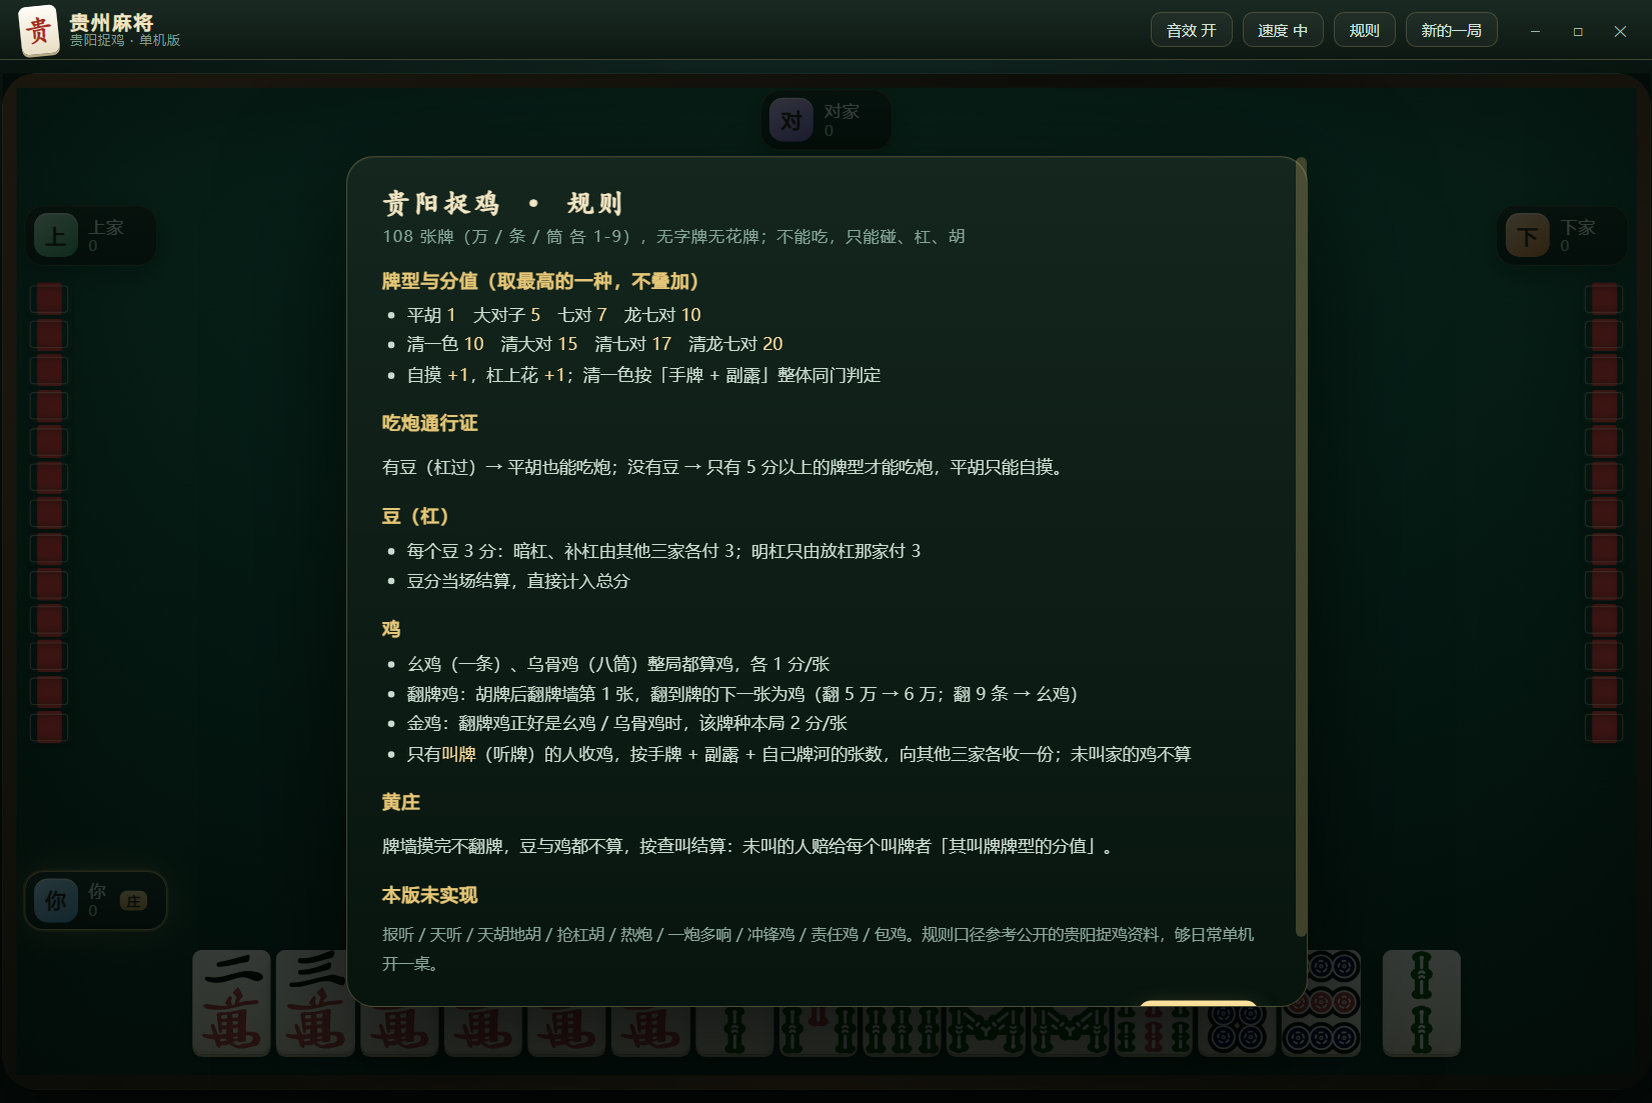
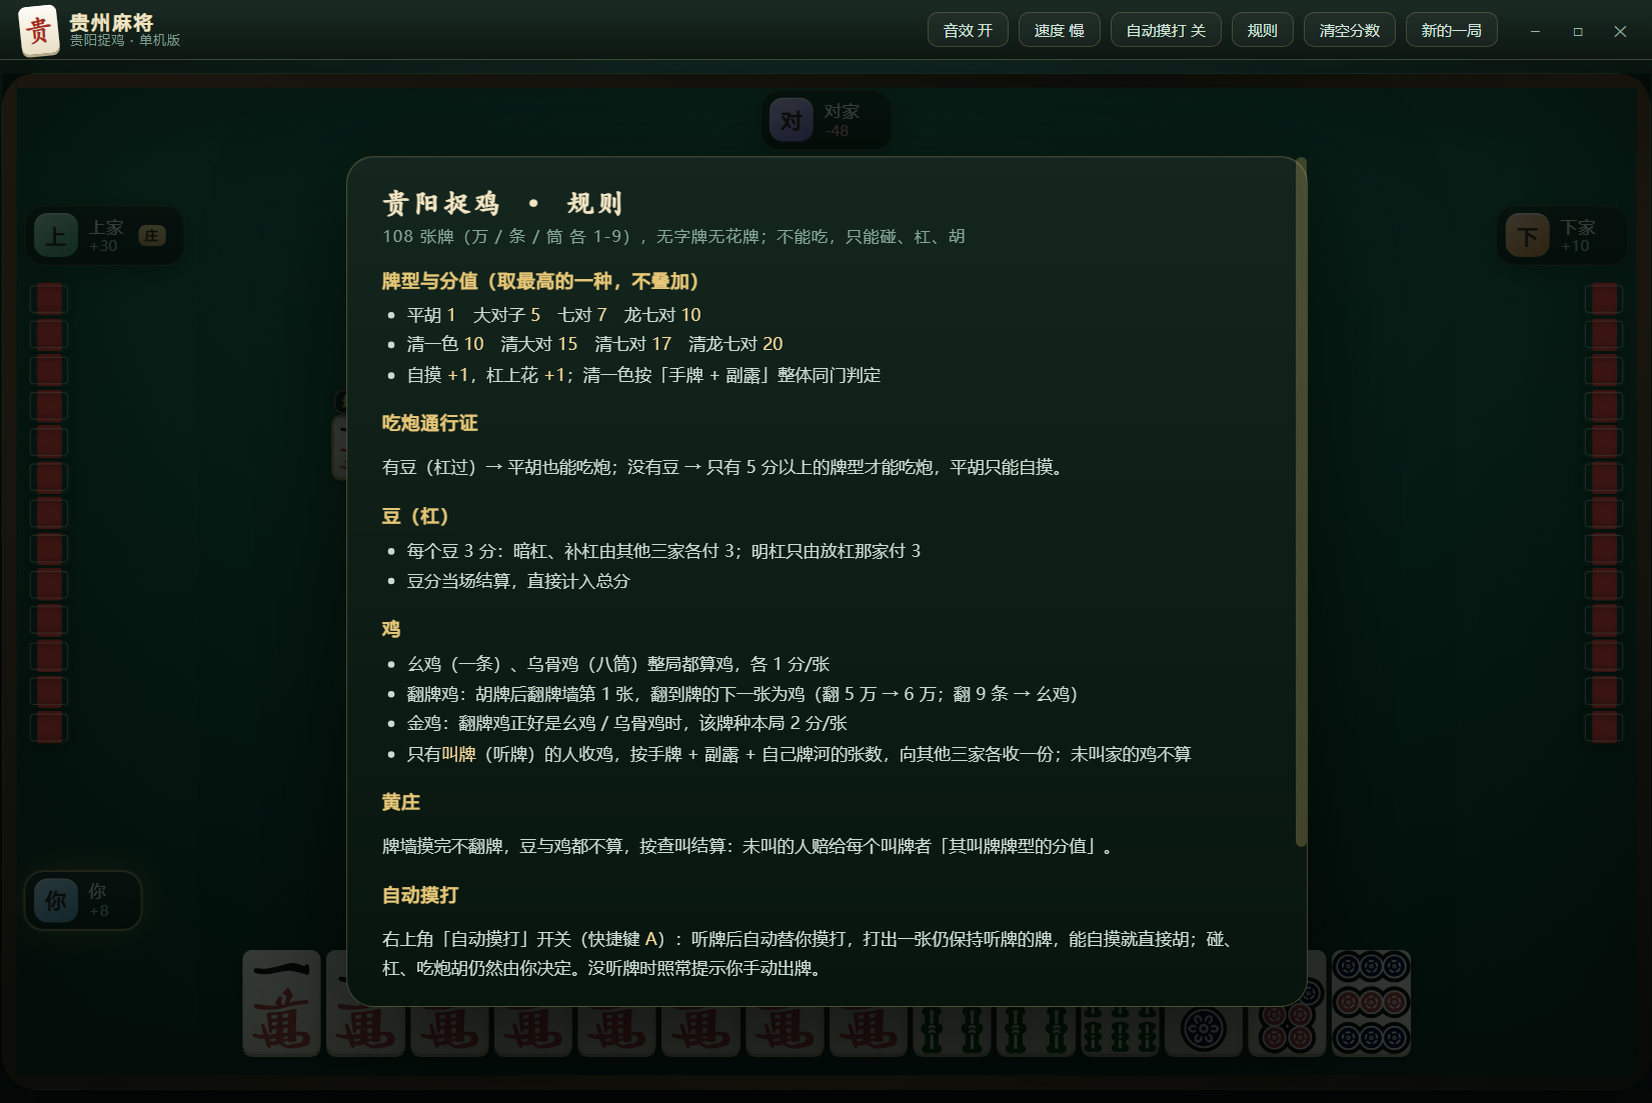
feat: 听牌后自动摸打开关
- 标题栏新增「自动摸打 开/关」（快捷键 A），状态本地保存，下一局/下次启动沿用
- 玩家听牌后自动摸牌打牌：优先打刚摸到的那张、听口可见剩张多的那张，能自摸直接胡
- 没听牌时不接管，仍由玩家手动出牌；碰/杠/吃炮胡依旧由玩家点
- 自动摸打期间桌面显示「自动摸打中」、出牌提示条与「自动」角标
- 新增 4 个用例（选牌、自摸、未听牌不接管、自动对局不误弹提示），共 17 个
- 截图模式增加 --shot-mode=auto，doc 截图全部刷新

diff --git a/src/js/ui.js b/src/js/ui.js
@@ -86,6 +86,7 @@
     el.turn = $('#cp-turn');
     el.soundBtn = $('#btn-sound');
     el.speedBtn = $('#btn-speed');
+    el.autoBtn = $('#btn-auto');
   }
 
   /* ---------------- 出牌速度 ---------------- */
@@ -101,6 +102,25 @@
     if (game) game.speed = SPEEDS[speedIdx].value;
     el.speedBtn.textContent = `速度 ${SPEEDS[speedIdx].label}`;
     try { localStorage.setItem('gz-speed', String(speedIdx)); } catch (e) { /* ignore */ }
+  }
+
+  /* ---------------- 自动摸打 ---------------- */
+
+  let autoOn = false;
+
+  function applyAuto() {
+    if (game) game.setAuto(autoOn);
+    el.autoBtn.textContent = `自动摸打 ${autoOn ? '开' : '关'}`;
+    el.autoBtn.classList.toggle('on', autoOn);
+    try { localStorage.setItem('gz-auto', autoOn ? '1' : '0'); } catch (e) { /* ignore */ }
+  }
+
+  function toggleAuto() {
+    autoOn = !autoOn;
+    applyAuto();
+    toast(autoOn
+      ? '自动摸打已开启：听牌后自动替你摸打（碰、杠、胡仍由你点）'
+      : '自动摸打关闭，恢复手动出牌', 2600);
   }
 
   /* ---------------- 拼装 ---------------- */
@@ -123,6 +143,7 @@
     const score = game.scores[id];
     const badges = [];
     if (game.dealer === id) badges.push('<span class="badge zhuang">庄</span>');
+    if (id === 0 && game.autoPlay) badges.push('<span class="badge auto">自动</span>');
     if (p.said) badges.push(`<span class="badge said">${p.said}</span>`);
     if (id === 0) {
       const ting = game.tingOf(0);
@@ -198,7 +219,7 @@
       const i = hand.indexOf(pl.justDrawn);
       if (i >= 0) { hand.splice(i, 1); drawn = pl.justDrawn; }
     }
-    const canPlay = !!(awaiting && awaiting.kind === 'discard' && awaiting.player === 0);
+    const canPlay = !!(awaiting && awaiting.kind === 'discard' && awaiting.player === 0 && !awaiting.auto);
     let html = hand.map((t) => faceHtml(t, canPlay ? 'playable' : '')).join('') +
       (drawn != null ? faceHtml(drawn, 'drawn' + (canPlay ? ' playable' : '')) : '');
     // 听牌：按手牌样式排在右侧，每张角上标可见剩张
@@ -242,6 +263,7 @@
   function turnLabel() {
     if (game.phase === 'ended') return '本局结束';
     if (game.awaiting && game.awaiting.kind === 'claim') return '等你决定 · 碰 / 杠 / 胡';
+    if (game.awaiting && game.awaiting.auto) return '自动摸打中';
     const p = game.players[game.turn];
     if (!p) return '';
     return game.turn === 0 ? '轮到你出牌' : `轮到 ${p.name}`;
@@ -263,10 +285,15 @@
     const a = game.awaiting;
     let html = '';
     if (a && a.kind === 'discard' && a.player === 0) {
-      const s = a.self || {};
-      if (s.hu) html += `<button class="action-btn hu" data-act="hu">胡 ${s.hu.name}</button>`;
-      (s.angang || []).forEach((t) => { html += `<button class="action-btn gang" data-act="angang" data-tile="${t}">暗杠 ${TN(t)}</button>`; });
-      (s.bugang || []).forEach((t) => { html += `<button class="action-btn gang" data-act="bugang" data-tile="${t}">补杠 ${TN(t)}</button>`; });
+      if (a.auto) {
+        html += `<div class="auto-hint">自动摸打 · ${a.autoTile != null ? '打出 ' + TN(a.autoTile) : '自摸'}</div>`;
+      } else {
+        const s = a.self || {};
+        if (s.hu) html += `<button class="action-btn hu" data-act="hu">胡 ${s.hu.name}</button>`;
+        (s.angang || []).forEach((t) => { html += `<button class="action-btn gang" data-act="angang" data-tile="${t}">暗杠 ${TN(t)}</button>`; });
+        (s.bugang || []).forEach((t) => { html += `<button class="action-btn gang" data-act="bugang" data-tile="${t}">补杠 ${TN(t)}</button>`; });
+        if (game.autoPlay) html += '<div class="auto-hint">自动摸打待命 · 还没听牌，先手动打一张</div>';
+      }
     } else if (a && a.kind === 'claim') {
       const source = game.players[a.from] ? game.players[a.from].name : '对方';
       html += `<div class="claim-notice">${source} 打出 <b>${TN(a.tile)}</b></div>`;
@@ -538,6 +565,9 @@
     <h3>黄庄</h3>
     <p>牌墙摸完不翻牌，豆与鸡都不算，按查叫结算：未叫的人赔给每个叫牌者「其叫牌牌型的分值」。</p>
 
+    <h3>自动摸打</h3>
+    <p>右上角「自动摸打」开关（快捷键 <span class="hl">A</span>）：听牌后自动替你摸打，打出一张仍保持听牌的牌，能自摸就直接胡；碰、杠、吃炮胡仍然由你决定。没听牌时照常提示你手动出牌。</p>
+
     <h3>本版未实现</h3>
     <p class="note">报听 / 天听 / 天胡地胡 / 抢杠胡 / 热炮 / 一炮多响 / 冲锋鸡 / 责任鸡 / 包鸡。规则口径参考公开的贵阳捉鸡资料，够日常单机开一桌。</p>
 
@@ -579,14 +609,17 @@
       if (e.key === 'Escape') {
         if (game && game.awaiting && game.awaiting.kind === 'claim') game.humanRespond('pass');
         else el.overlay.classList.add('hidden');
+        return;
       }
+      // 键盘 A：开关自动摸打
+      if ((e.key === 'a' || e.key === 'A') && !e.ctrlKey && !e.metaKey && !e.altKey) toggleAuto();
     });
 
     /* 鼠标停在手牌上：显示打出去之后听什么、还剩几张 */
     el.stage.addEventListener('mousemove', (e) => {
       const node = e.target && e.target.closest ? e.target.closest('.hand-main .tile') : null;
       const a = game && game.awaiting;
-      if (!node || !a || a.kind !== 'discard' || a.player !== 0) {
+      if (!node || !a || a.kind !== 'discard' || a.player !== 0 || a.auto) {
         if (tipTile !== null) hideTip();
         return;
       }
@@ -598,6 +631,8 @@
       speedIdx = (speedIdx + 1) % SPEEDS.length;
       applySpeed();
     });
+
+    el.autoBtn.addEventListener('click', toggleAuto);
 
     el.soundBtn.addEventListener('click', () => {
       Sound.enabled = !Sound.enabled;
@@ -657,17 +692,20 @@
     try {
       const saved = parseInt(localStorage.getItem('gz-speed'), 10);
       if (saved >= 0 && saved < SPEEDS.length) speedIdx = saved;
+      autoOn = localStorage.getItem('gz-auto') === '1';
     } catch (e) { /* ignore */ }
 
     const savedScore = loadScore();
     game = new GZ.Game({
       speed: SPEEDS[speedIdx].value,
+      autoPlay: autoOn,
       scores: savedScore ? savedScore.scores : undefined,
       roundNo: savedScore ? savedScore.round : undefined,
       dealer: savedScore ? savedScore.dealer : undefined
     });
     window.__game = game;
     applySpeed();
+    applyAuto();
     saveScore();
 
     game.on('state', render);

diff --git a/src/js/game.js b/src/js/game.js
@@ -41,6 +41,7 @@
       }));
       this.phase = 'idle';
       this.awaiting = null;
+      this.autoPlay = !!opts.autoPlay;
       this.kongLog = [];
       this.roundDeltas = [0, 0, 0, 0];
       this.wall = [];
@@ -215,12 +216,84 @@
           return { type: 'discard', tile };
         });
       }
+
+      // 自动摸打：听牌后由程序替你摸打，停一下让人看清打了哪张
+      const auto = this.autoPlay ? this.autoDecision(p, self) : null;
+      if (!auto) return this.waitHumanDiscard(p, self);
+      const awaiting = {
+        kind: 'discard', player: p, self, auto: true,
+        autoTile: auto.type === 'hu' ? null : auto.tile
+      };
+      this.awaiting = awaiting;
+      this.emitState();
+      return this.delay(380).then(() => {
+        if (this.phase !== 'playing') return { type: 'none' };
+        if (!this.autoPlay) return this.waitHumanDiscard(p, self); // 中途关掉 → 交回手动
+        if (this.awaiting === awaiting) this.awaiting = null;
+        this.emitState();
+        return auto;
+      });
+    }
+
+    waitHumanDiscard(p, self) {
       this.awaiting = { kind: 'discard', player: p, self };
       this.emitState();
       return new Promise((resolve) => {
         this.awaiting.resolve = resolve;
         this.emit('prompt', this.awaiting);
       });
+    }
+
+    /**
+     * 自动摸打的选择：听牌后打一张仍保持听牌的牌（优先打刚摸的、听口剩张多的），
+     * 能自摸就直接胡。没听牌返回 null，交回玩家手动出牌。
+     */
+    autoDecision(p, self) {
+      const pl = this.players[p];
+      if (pl.hand.length !== 14 - pl.melds.length * 3) return null;
+      if (self && self.hu) return { type: 'hu' };
+      const seen = this.seenCounts(p);
+      const tried = new Set();
+      let best = null;
+      for (const tile of pl.hand) {
+        if (tried.has(tile)) continue;
+        tried.add(tile);
+        const waits = R.tenpaiTiles(removeTiles(pl.hand, tile, 1), pl.melds);
+        if (!waits.length) continue;
+        const left = waits.reduce((sum, w) => sum + Math.max(0, 4 - seen[w]), 0);
+        // 先比听口剩张，再优先打刚摸到的那张（不破坏原来的听牌）
+        const score = left * 2 + (tile === pl.justDrawn ? 1 : 0);
+        if (!best || score > best.score) best = { score, tile };
+      }
+      return best ? { type: 'discard', tile: best.tile } : null;
+    }
+
+    /** 某人能看到的牌张数：自己手牌 + 四家副露 + 四家牌河 */
+    seenCounts(p) {
+      const c = new Array(27).fill(0);
+      for (const t of this.players[p].hand) c[t]++;
+      for (const q of this.players) {
+        for (const m of q.melds) for (const t of m.tiles) c[t]++;
+        for (const t of q.discards) c[t]++;
+      }
+      return c;
+    }
+
+    setAuto(on) {
+      this.autoPlay = !!on;
+      // 正等着你出牌时打开自动摸打：立刻替你打（不用再等下一巡）
+      const a = this.awaiting;
+      if (this.autoPlay && a && a.kind === 'discard' && a.player === 0 && !a.auto && a.resolve) {
+        const auto = this.autoDecision(0, a.self);
+        if (auto) {
+          this.awaiting = null;
+          this.emitState();
+          a.resolve(auto);
+          return true;
+        }
+      }
+      this.emitState();
+      return this.autoPlay;
     }
 
     /* ---------------- 副露 ---------------- */
@@ -340,7 +413,7 @@
 
     humanDiscard(tile) {
       const a = this.awaiting;
-      if (!a || a.kind !== 'discard' || a.player !== 0) return false;
+      if (!a || a.kind !== 'discard' || a.player !== 0 || a.auto) return false;
       if (!this.players[0].hand.includes(tile)) return false;
       this.awaiting = null;
       this.emitState();
@@ -350,7 +423,7 @@
 
     humanGang(type, tile) {
       const a = this.awaiting;
-      if (!a || a.kind !== 'discard' || a.player !== 0) return false;
+      if (!a || a.kind !== 'discard' || a.player !== 0 || a.auto) return false;
       const self = a.self || {};
       if (type === 'angang' && !(self.angang || []).includes(tile)) return false;
       if (type === 'bugang' && !(self.bugang || []).includes(tile)) return false;
@@ -362,7 +435,7 @@
 
     humanHu() {
       const a = this.awaiting;
-      if (!a || a.kind !== 'discard' || a.player !== 0 || !a.self || !a.self.hu) return false;
+      if (!a || a.kind !== 'discard' || a.player !== 0 || a.auto || !a.self || !a.self.hu) return false;
       this.awaiting = null;
       this.emitState();
       a.resolve({ type: 'hu' });

diff --git a/src/css/style.css b/src/css/style.css
@@ -84,6 +84,12 @@ html, body {
 }
 .tb-btn:hover { background: rgba(231, 200, 120, 0.14); color: #f6e9c8; border-color: rgba(231, 200, 120, 0.45); }
 .tb-btn:active { transform: translateY(1px); }
+.tb-btn.on {
+  color: #33220a;
+  background: linear-gradient(180deg, #ffe6ad, #dcb05a);
+  border-color: rgba(255, 232, 180, 0.9);
+  box-shadow: 0 0 12px rgba(231, 200, 120, 0.32), inset 0 1px 0 #fff8e0;
+}
 
 .win-btns { display: flex; gap: 2px; margin-left: 6px; }
 .win-btn {
@@ -216,6 +222,7 @@ html, body {
 .badge.zhuang { background: linear-gradient(180deg, #f3d99b, #c39d4f); color: #2c1c05; }
 .badge.ting { background: rgba(127, 208, 176, 0.18); color: #a8ecd0; border: 1px solid rgba(127, 208, 176, 0.4); }
 .badge.said { background: rgba(231, 200, 120, 0.9); color: #2a1a06; }
+.badge.auto { background: rgba(231, 200, 120, 0.16); color: #f0d79a; border: 1px solid rgba(231, 200, 120, 0.5); }
 
 .seat.active .plate {
   border-color: rgba(231, 200, 120, 0.75);
@@ -495,6 +502,22 @@ html, body {
   border-color: rgba(255, 255, 255, 0.16);
   font-size: 14px;
   padding: 0 20px;
+}
+
+/* 自动摸打的提示条（不挡按钮，纯提示） */
+.auto-hint {
+  height: 30px;
+  display: flex;
+  align-items: center;
+  padding: 0 16px;
+  border-radius: 15px;
+  font-size: 12.5px;
+  letter-spacing: 1px;
+  color: #e6f2ea;
+  background: rgba(8, 22, 17, 0.82);
+  border: 1px solid rgba(231, 200, 120, 0.42);
+  box-shadow: 0 4px 14px rgba(0, 0, 0, 0.35);
+  animation: btnIn 0.18s ease-out;
 }
 
 @keyframes btnIn {

diff --git a/electron/main.js b/electron/main.js
@@ -133,6 +133,36 @@ async function capture() {
       })(); true;
     `);
     await sleep(700);
+  } else if (shotMode === 'auto') {
+    await w.webContents.executeJavaScript(`
+      (function(){
+        const g = window.__game;
+        g.speed = 0.00001;
+        g.askDiscard = function(){ return new Promise(function(){}); };
+      })(); true;
+    `);
+    await sleep(700);
+    await w.webContents.executeJavaScript(`
+      (function(){
+        const g = window.__game;
+        g.setAuto(true);
+        const btn = document.querySelector('#btn-auto');
+        btn.classList.add('on');
+        btn.textContent = '自动摸打 开';
+        g.phase = 'playing';
+        g.turn = 0;
+        g.scores = [0, 0, 0, 0];
+        g.roundDeltas = [0, 0, 0, 0];
+        g.players.forEach(function (q) { q.discards = []; q.melds = []; q.said = ''; });
+        g.lastDiscard = null;
+        g.players[0].hand = [0,1,2,3,4,5,6,7,8,12,13,18,18,20];
+        g.players[0].discards = [22, 24];
+        g.players[0].justDrawn = 20;
+        g.awaiting = { kind: 'discard', player: 0, auto: true, autoTile: 20, self: { hu: null, angang: [], bugang: [] } };
+        g.emitState();
+      })(); true;
+    `);
+    await sleep(700);
   } else if (shotMode === 'tip') {
     await w.webContents.executeJavaScript(`
       (function(){

diff --git a/src/index.html b/src/index.html
@@ -19,6 +19,7 @@
       <div class="tb-actions">
         <button id="btn-sound" class="tb-btn" title="开关音效">音效 开</button>
         <button id="btn-speed" class="tb-btn" title="电脑出牌速度">速度 中</button>
+        <button id="btn-auto" class="tb-btn" title="听牌后自动摸打（碰、杠、胡仍由你决定）">自动摸打 关</button>
         <button id="btn-rules" class="tb-btn" title="查看规则">规则</button>
         <button id="btn-reset-scores" class="tb-btn" title="清空四家累计分数">清空分数</button>
         <button id="btn-new" class="tb-btn" title="重新开一局">新的一局</button>

diff --git a/README.md b/README.md
@@ -24,11 +24,14 @@ npm start          # 或者双击 start.bat
 - **听牌提示**：叫牌后，手牌右侧会以**手牌样式**列出所听的每一种牌，角标是这种牌的**可见剩余张数**（最多列 4 种，其余显示 `+N`）；鼠标停在一张手牌上还会显示「打这张 → 听什么、可见还剩几张」，并把手牌里能胡的牌高亮（金边）。
 - **碰 / 杠 / 胡**：别人打牌后如果可操作，底部会明确提示「谁打出哪张」，按钮也标出牌名；牌河里最新弃牌会高亮并标注「可碰这张」。提示不会自动消失，直到你选择操作或点「过」（`Esc` 也可以过）。
 - **暗杠 / 补杠**：在自己回合、出牌之前，按钮出现在同一位置。
+- **自动摸打**：右上角「自动摸打 开 / 关」（也可以按 `A`）。开了之后，只要你已经听牌，摸牌后就会自动替你打出一张仍保持听牌的牌（优先打刚摸到的那张、听口剩张多的），能自摸就直接胡；没听牌时仍然弹提示让你自己打。碰 / 杠 / 胡（吃炮）始终由你点。开关状态保存在本地，下一局、下次启动都记得。
 - **速度**：右上角「速度 慢 / 中 / 快」切换电脑出牌节奏（默认「慢」，约 1.4 秒一手；嫌慢可以调快）。
 - **分数保存**：四家累计分数、局数和庄家会保存在本地，退出重开后恢复；点「清空分数」并确认，可将四家累计分数归零。
 - **庄家**：胡牌者接庄，黄庄庄家连庄。
 
 ![听牌提示](output/tip.png)
+
+![自动摸打](output/auto.png)
 
 ## 规则实现范围
 
@@ -75,7 +78,7 @@ guizhou-mahjong/
 │       ├── game.js     # 对局状态机：发牌、摸打、抢牌优先级、杠分、结算
 │       ├── tiles.js    # 牌 → SVG 文件映射
 │       └── ui.js       # 渲染、交互、音效、听牌提示、结算/规则弹层
-├── test/rules.test.cjs # 12 个用例
+├── test/rules.test.cjs # 17 个用例
 └── start.bat
 ```
 
@@ -85,7 +88,7 @@ guizhou-mahjong/
 npm test
 ```
 
-12 个用例全部通过：
+17 个用例全部通过：
 
 - 各牌型分值与「取最高不叠加」
 - 副露参与判定、副露后不算七对
@@ -95,6 +98,7 @@ npm test
 - 鸡的三种类型、金鸡翻倍、副露按张数计鸡
 - 整局模拟 8 局：无异常、每局四家分数零和、黄庄数据结构完整
 - 玩家侧动作路径：碰 / 杠 / 胡 的响应与结算
+- 自动摸打：听牌时自动打刚摸的牌、保持听牌；能自摸直接胡；没听牌不接管；四局自动对局中「听牌时不该弹手动提示」
 
 ## 开发自检
 
@@ -103,7 +107,7 @@ npm run shot            # 桌面对局截图 → output/table.png
 npm run shot:preview    # 牌面预览 → output/tiles.png
 ```
 
-`electron/main.js` 里的 `--shot-mode=claim|result|tip|rules` 可以分别截取对应界面，便于回归检查样式。
+`electron/main.js` 里的 `--shot-mode=claim|result|tip|ting|auto|rules` 可以分别截取对应界面，便于回归检查样式。
 
 ## 后续可以做的
 
